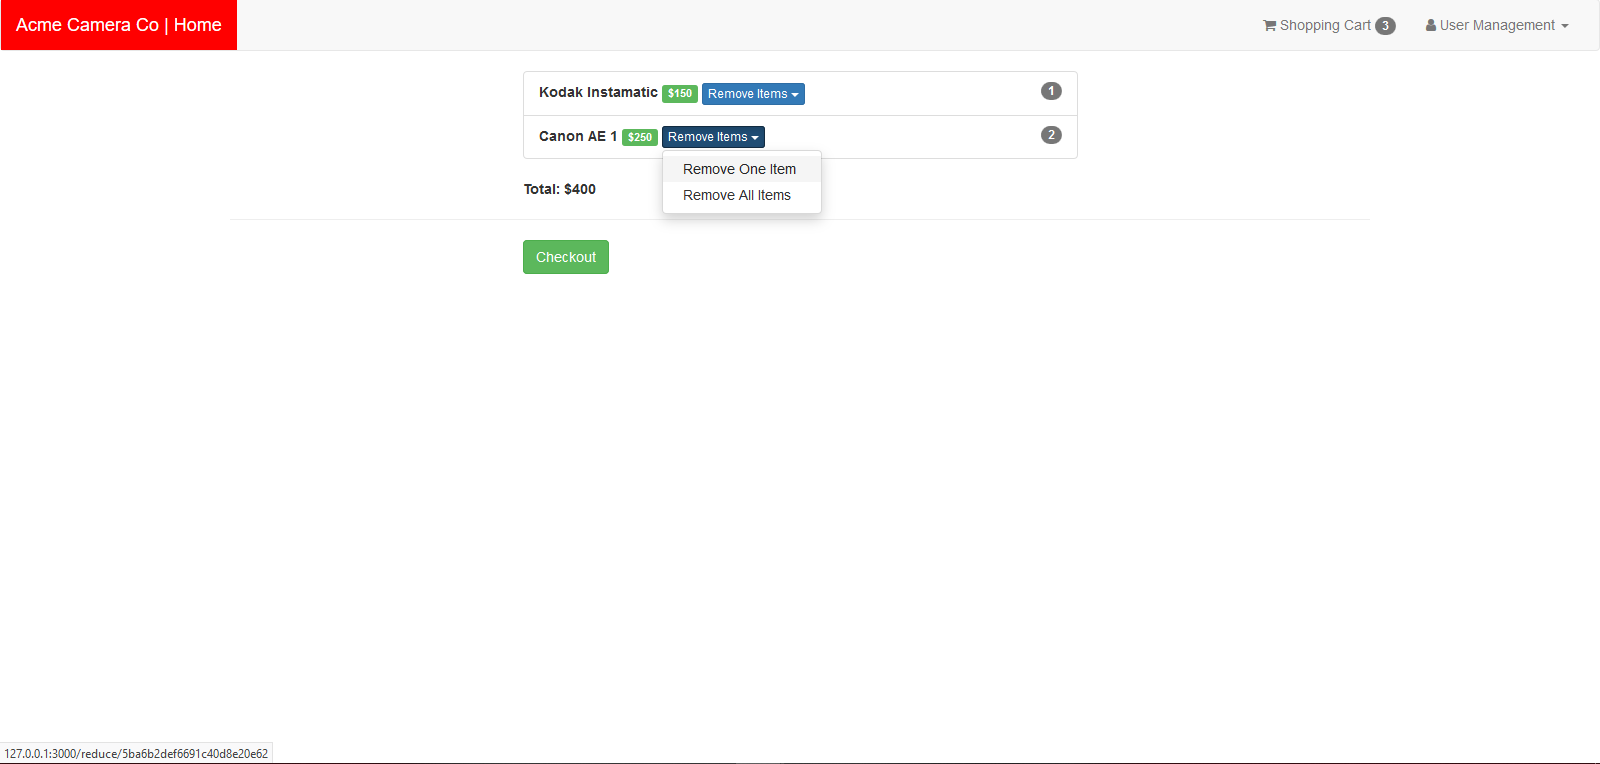
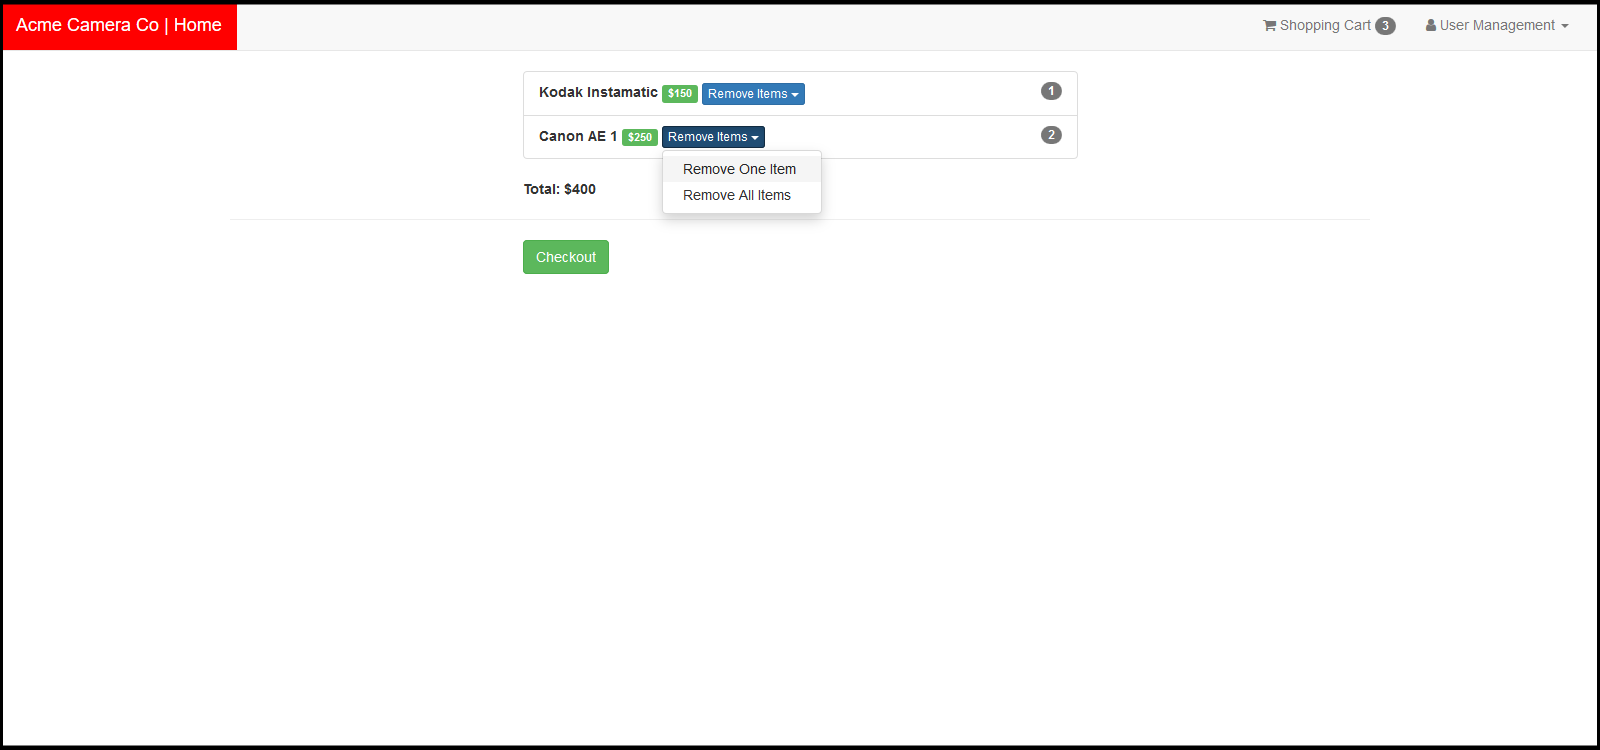
reduce png sizes, update readme for new filetypes

diff --git a/README.md b/README.md
@@ -1,7 +1,7 @@
 # Node Express Mongo Shopping Cart
 
 
-![](https://github.com/CLewisMessina/Node_Express_Mongo_Shopping_cart/blob/master/1LandingPg.png)
+![](https://github.com/CLewisMessina/Node_Express_Mongo_Shopping_cart/blob/master/1LandingPg.jpg)
 
 **Landing Page**
 
@@ -27,7 +27,7 @@
 
 
 
-![](https://github.com/CLewisMessina/Node_Express_Mongo_Shopping_cart/blob/master/2UserMgt.png)
+![](https://github.com/CLewisMessina/Node_Express_Mongo_Shopping_cart/blob/master/2UserMgt.jpg)
 
 **Sign Up/Sign In Navigation**
 * Users may add items to cart but must sign-up and/or be logged in to make purchases. 
@@ -64,7 +64,7 @@
 
 
 
-![](https://github.com/CLewisMessina/Node_Express_Mongo_Shopping_cart/blob/master/7CompletedTrans.png)
+![](https://github.com/CLewisMessina/Node_Express_Mongo_Shopping_cart/blob/master/7CompletedTrans.jpg)
 **Succesful Transaction Route and Flash Message**
 
 
